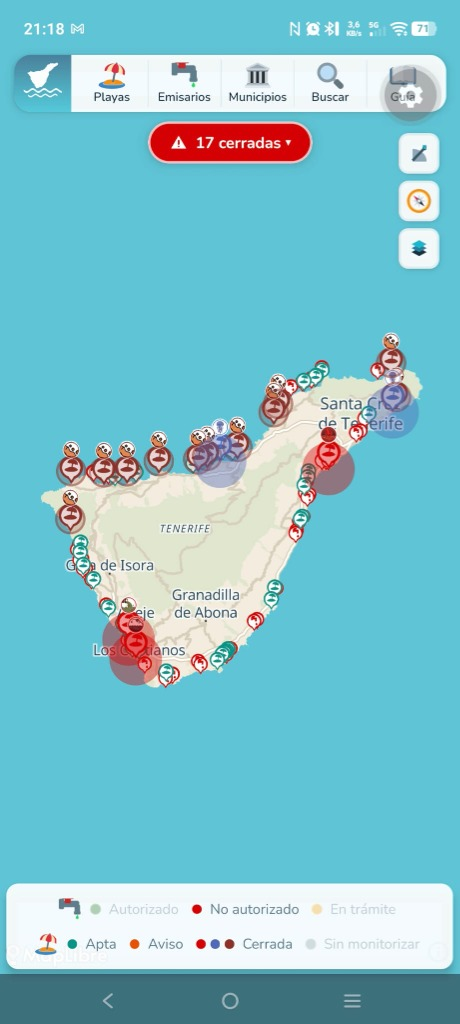
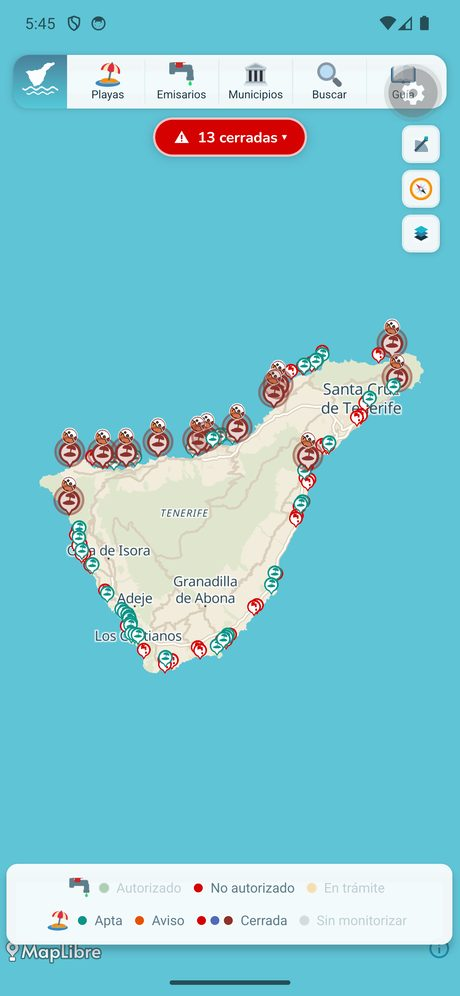
Landing L15+L16: disclaimer unificado y captura del mockup actualizada
L15: el disclaimer de prensa en /o/{id} pasa a la fórmula canónica
de la app («la proximidad no implica causalidad»).

L16: app-shot-map.jpg recapturada con la app actual — la anterior
era del 18-oct y mostraba cifras y pin-art de otra versión.

Generated with [Devin](https://devin.ai)

diff --git a/backend/app/templates/outfall.html b/backend/app/templates/outfall.html
@@ -451,9 +451,8 @@
         <div class="ngroup">En la zona</div>
         {{ news_years(news.zone_groups) }}
         {%- endif %}
-        <div class="nearsub" style="margin-top:10px">Según prensa —
-          estar cerca no implica causar: la proximidad es contexto,
-          no causalidad</div>
+        <div class="nearsub" style="margin-top:10px">Según prensa:
+          la proximidad no implica causalidad</div>
       </div>
       {%- endif %}
       {%- if source_url %}
